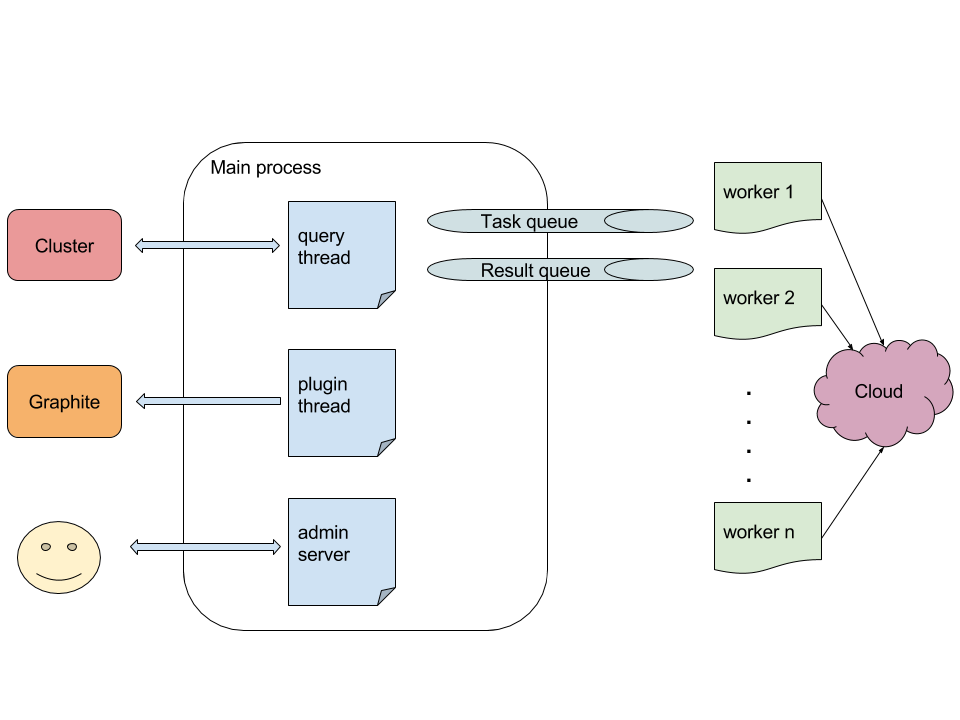
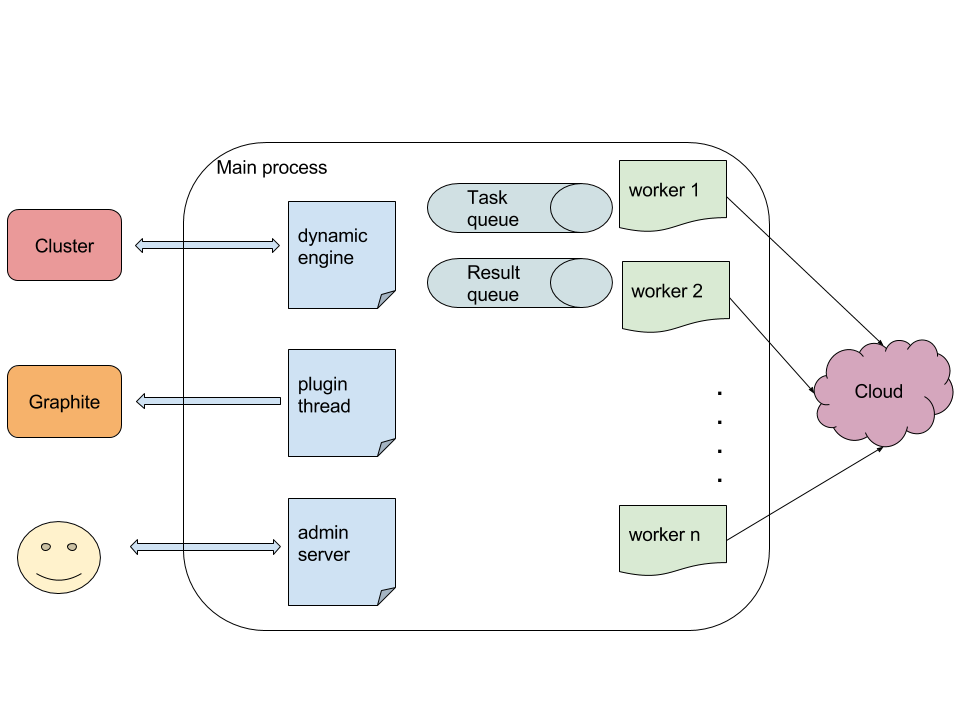
changed process to thread

diff --git a/design.md b/design.md
@@ -11,15 +11,13 @@ permalink: /design.html
 
 <img src="./images/system-structure.png" alt="System Structure"  />
 
-Dynamic Cluster runs a main process and a number of worker processes.
+Dynamic Cluster runs the dynamic engine in the main thread, a number of worker thread, an admin server thread and plugin thread(s).
 
-The main process has a query thread, an admin server thread and plugin thread(s).
+The dynamic engine queries the cluster and generates cloud tasks. It then puts the tasks into a task queue.
 
-The query thread queries the cluster and generates cloud tasks. It then puts the tasks into a task queue.
+The worker threads consume the task queue and run tasks. These tasks are to communicate with the cloud system to start/delete instances or get instance states, etc. Then worker threads put results into the result queue.
 
-The worker processes consume the task queue and run tasks. These tasks are to communicate with the cloud system to start/delete instances or get instance states, etc. Then worker processes put results into the result queue.
-
-The query thread consumes the result queue and acts on the results, such as modifying the cluster (add or delete nodes) or generating another task.
+The dynamic engine consumes the result queue and acts on the results, such as modifying the cluster (add or delete nodes) or generating another task.
 
 Each plugin starts a thread. For example, the graphite plugin thread sends messages to an external Graphite server.
 
